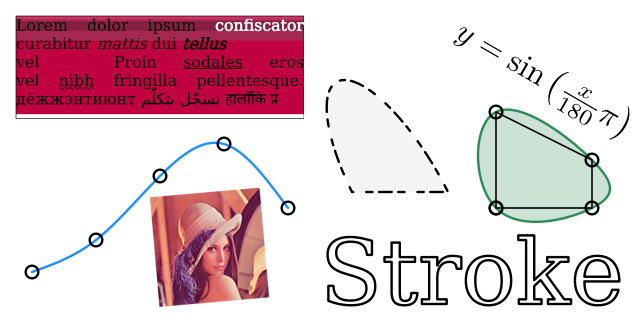
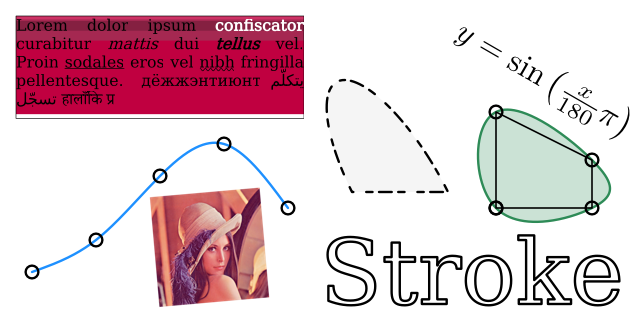
Fix cluster values for native Go HarfBuzz

Changed region(s): [[0.0, 0.125, 0.5, 0.3438]]

diff --git a/text/harfbuzz.go b/text/harfbuzz.go
@@ -54,15 +54,23 @@ func (s Shaper) Shape(text string, ppem uint16, direction Direction, script Scri
 	}
 	reverse := buf.Props.Direction == harfbuzz.RightToLeft || buf.Props.Direction == harfbuzz.BottomToTop
 
-	buf.AddRunes([]rune(text), 0, -1)
+	rtext := []rune(text)
+	buf.AddRunes(rtext, 0, -1)
 	buf.Shape(s.font, nil)
+
+	runeMap := make([]int, len(rtext))
+	j := 0
+	for i, _ := range text {
+		runeMap[j] = i
+		j++
+	}
 
 	glyphs := make([]Glyph, len(buf.Info))
 	for i := 0; i < len(buf.Info); i++ {
 		info := buf.Info[i]
 		position := buf.Pos[i]
 		glyphs[i].ID = uint16(info.Glyph)
-		glyphs[i].Cluster = uint32(info.Cluster)
+		glyphs[i].Cluster = uint32(runeMap[info.Cluster])
 		glyphs[i].XAdvance = int32(position.XAdvance)
 		glyphs[i].YAdvance = int32(position.YAdvance)
 		glyphs[i].XOffset = int32(position.XOffset)
